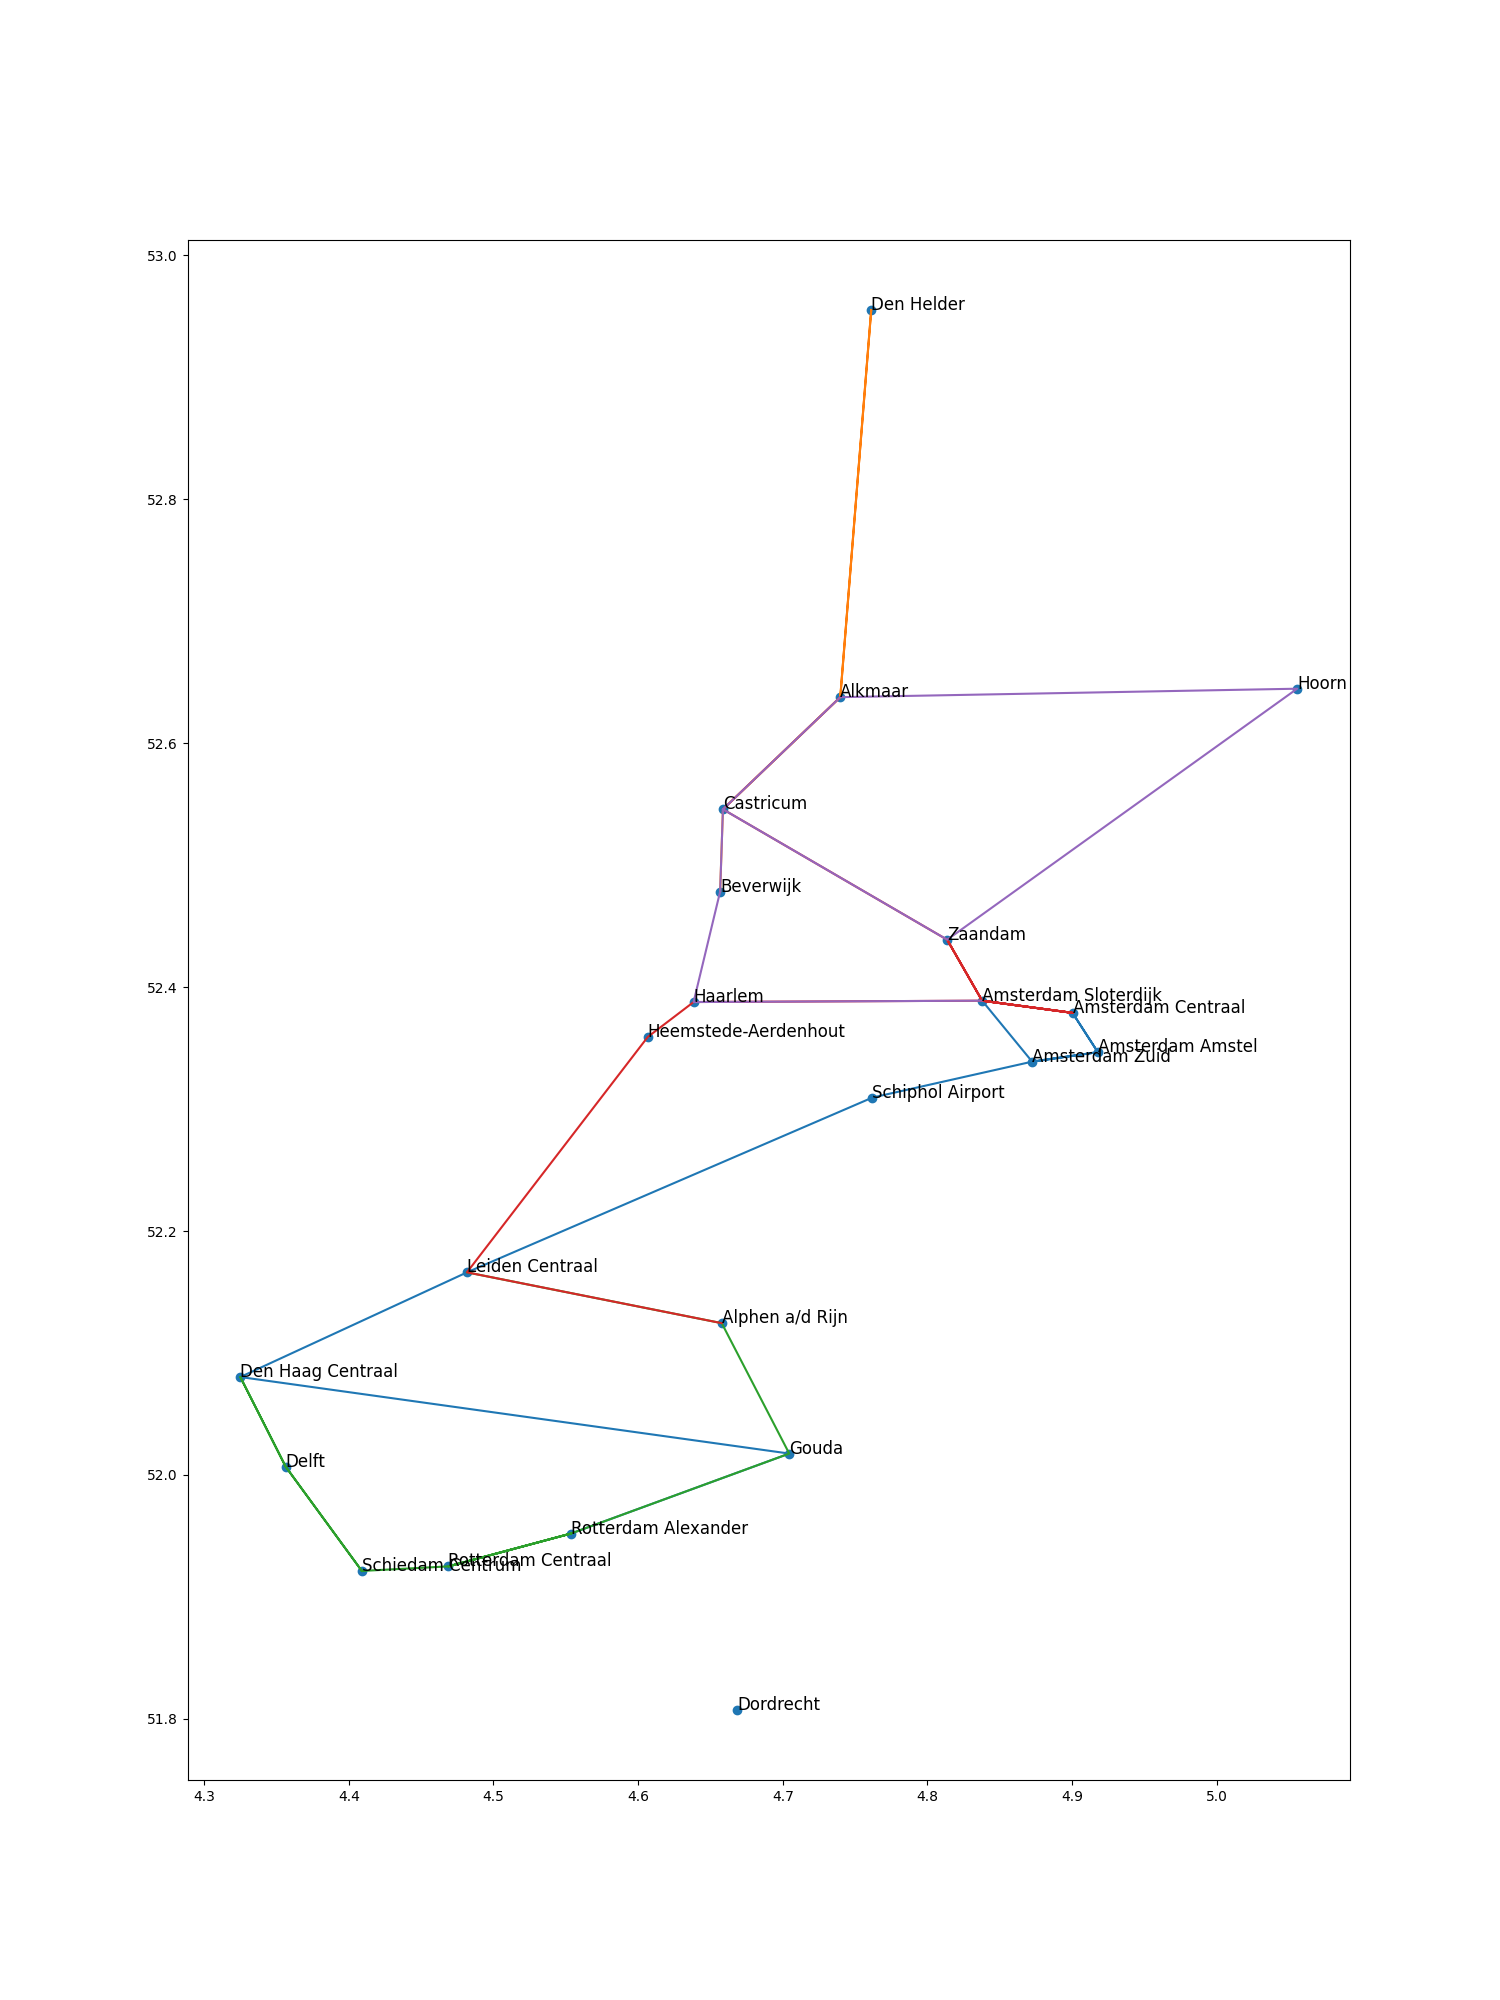
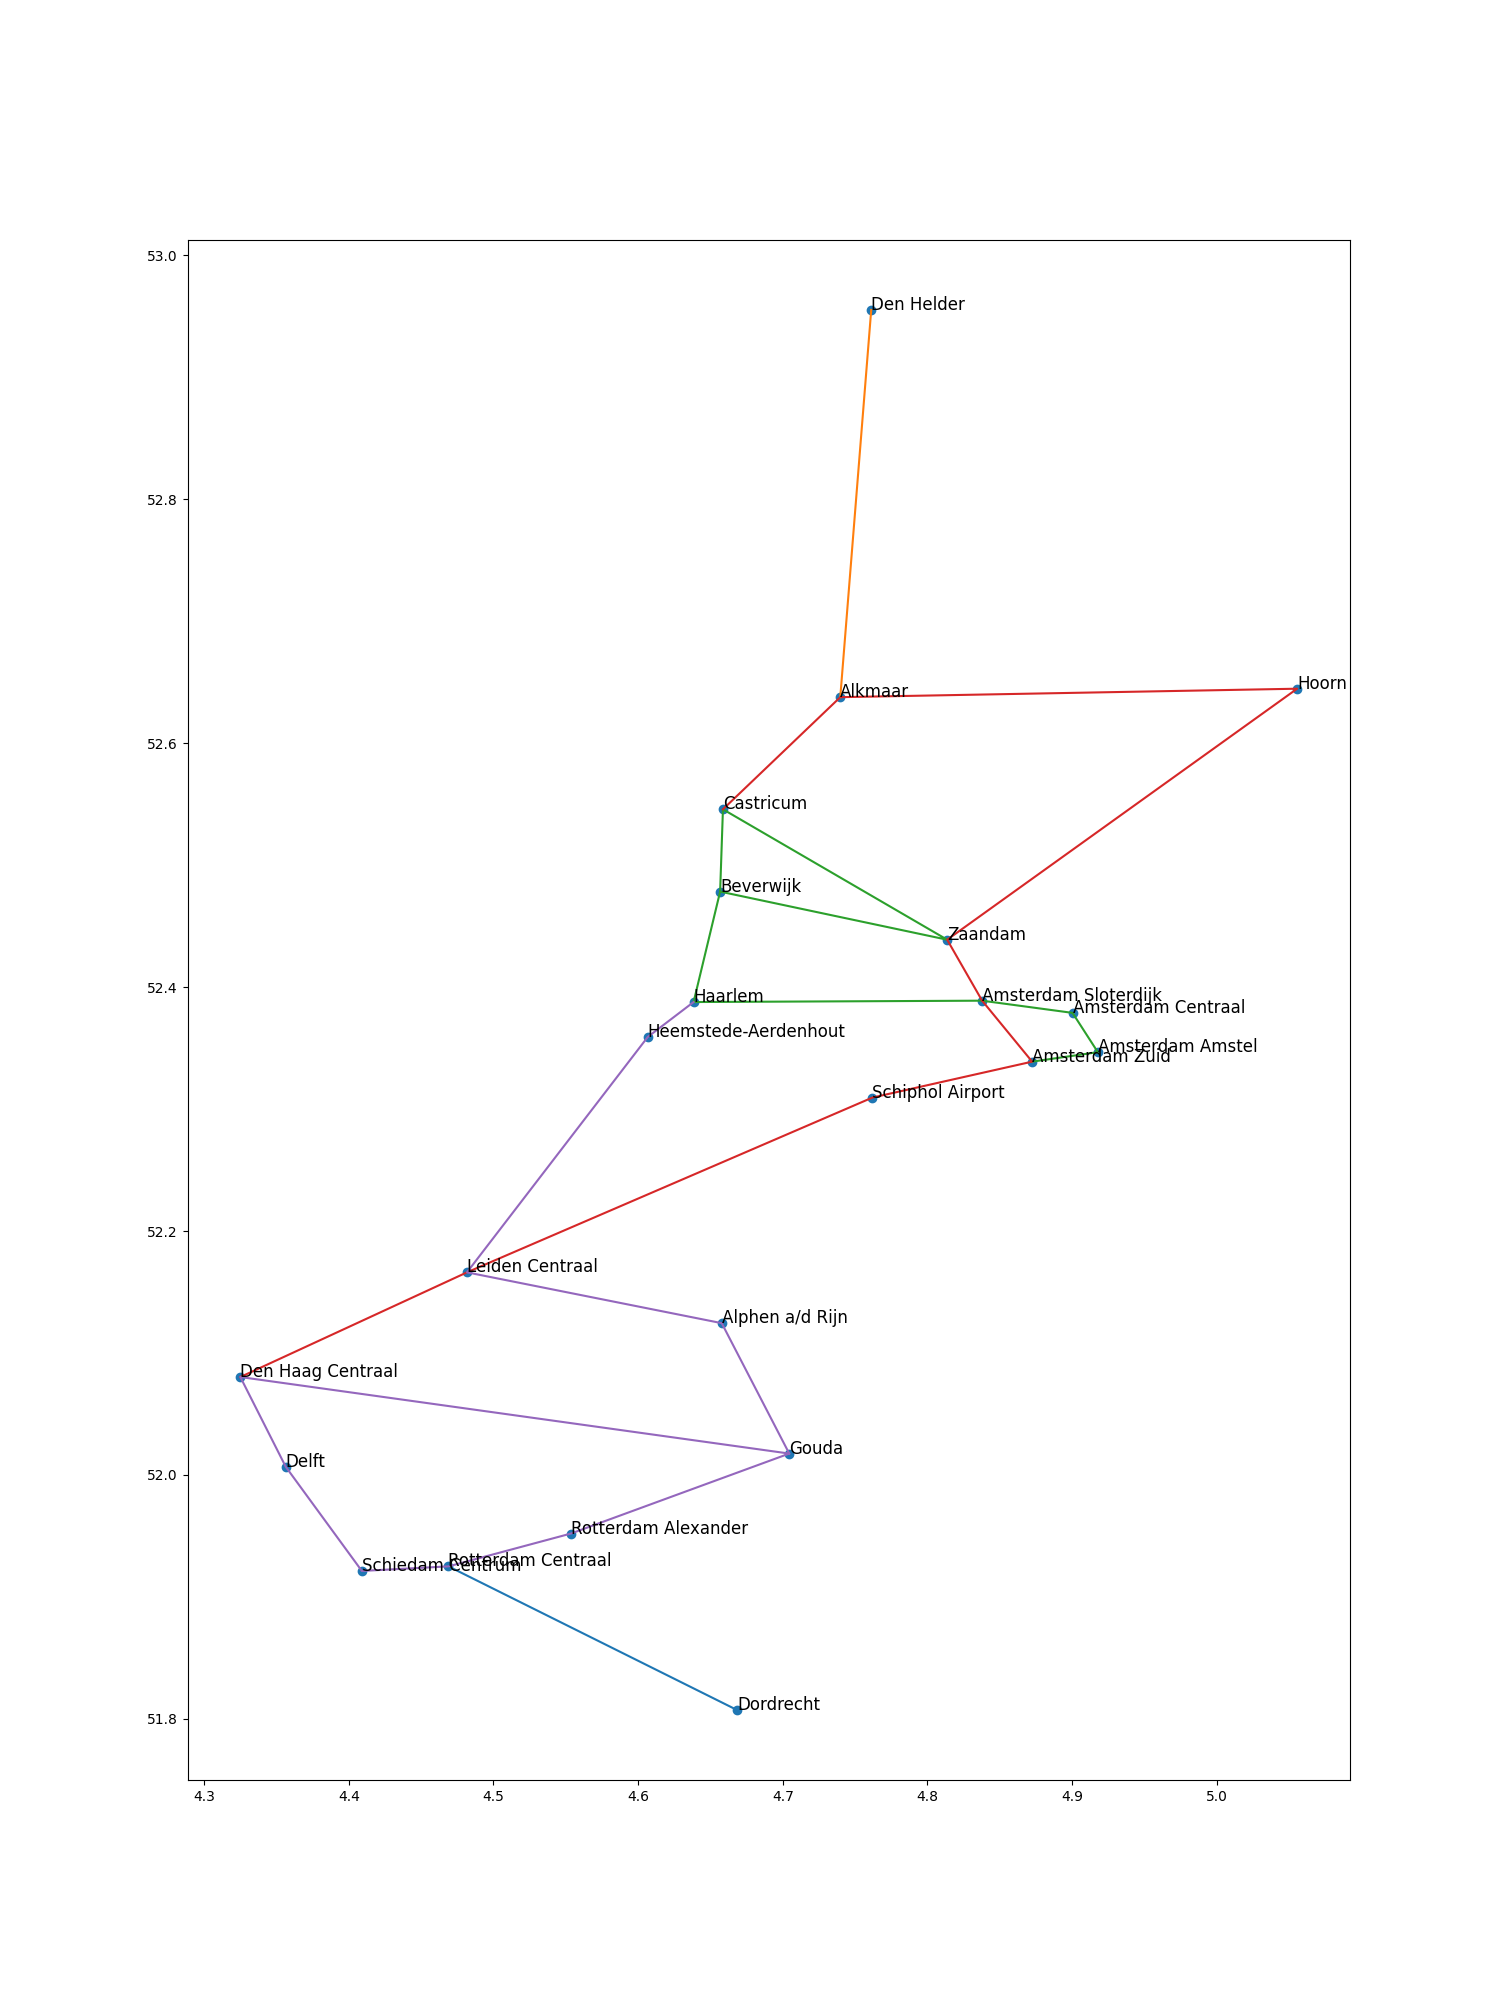
[Alec] Heuristiek op basis van verbindingen toegevoegd, nog niet werkend

diff --git a/main.py b/main.py
@@ -7,6 +7,7 @@ from code.bouwblokjes.plot_trajectories import *
 from code.bouwblokjes.inladen import *
 from code.bouwblokjes.score import *
 from code.bouwblokjes.writer import *
+from code.bouwblokjes.heur_maker import *
 import sys
 
 random.seed(10)
@@ -66,7 +67,10 @@ elif(algoritme == "Restricted_3"):
 #Greedy_apri
 elif(algoritme == "Greedy_apri"):
     print("Voor een even verdeelde standaard heuristiek: Basic")
+    print("Voor een heuristiek gebasseerd het aantal verbindingen van groot naar klein: Max_connections")
     heuristiek = input("Welke heuristiek wil je gebruiken? ")
+
+    #Geen heuristiek
     if(heuristiek == "Basic"):
         heur_stat = stations
         alg = Greedy_apri(heur_stat)
@@ -78,6 +82,17 @@ elif(algoritme == "Greedy_apri"):
         run_plot_trajectories('data/output/greed_apri/zonder_heur/maximum.csv', 'data/images/greed_apri/zonder_heur/max_track.png')
         run_plot_trajectories('data/output/greed_apri/zonder_heur/minimum.csv', 'data/images/greed_apri/zonder_heur/min_track.png')
 
+    #Max connections heuristiek
+    elif(heuristiek == "Max_connections"):
+        heur_stat = max_connection_counter(stations)
+        alg = Greedy_apri(heur_stat)
+        greed_results = alg.run_greedy_times(10000)
+        print("Het algoritme duurt", greed_results[5], "seconden")
+        run_plot_random_alg_score(greed_results[0], 'data/images/greed_apri/max_connections/scores_algoritme')
+        tracks_writer(greed_results[2], greed_results[1], 'data/output/greed_apri/max_connections/maximum.csv')
+        tracks_writer(greed_results[4], greed_results[3], 'data/output/greed_apri/max_connections/minimum.csv')
+        run_plot_trajectories('data/output/greed_apri/max_connections/maximum.csv', 'data/images/greed_apri/max_connections/max_track.png')
+        run_plot_trajectories('data/output/greed_apri/max_connections/minimum.csv', 'data/images/greed_apri/max_connections/min_track.png')
     else:
         print("Verkeerde input")
     

diff --git a/code/algoritmes/greedy_apriori.py b/code/algoritmes/greedy_apriori.py
@@ -7,6 +7,7 @@ import copy
 import random
 from code.classes.station import *
 from code.classes.traject import *
+from code.bouwblokjes.score import *
 
 class Greedy_apri():
 
@@ -19,17 +20,18 @@ class Greedy_apri():
         tried_conn = []
 
         while True:
-            sorted_connections = sorted(traject._endstation._apriori_heuristiek)
+            sorted_connections = sorted(traject._endstation._apriori_heuristiek, key=lambda item: item[1])
             for connection in sorted_connections:
                 if not {traject._endstation._name, connection} in self._ridentracks:
                     new_conn = traject._endstation._connection[connection]
                     if int(traject._traveltime) + int(new_conn[1]) > 120:
                         return traject
+                    self._ridentracks.append({traject._endstation._name, connection})
                     traject.add_trajectconnection(new_conn[0])
                     tried_conn = []
-                    self._ridentracks.append({traject._endstation._name, connection})
-                elif connect_name not in tried_conn:
-                    tried_conn.append(connect_name)
+                    break
+                elif connection not in tried_conn:
+                    tried_conn.append(connection)
                 elif len(tried_conn) == len(traject._endstation._connection):
                     return traject
 

diff --git a/code/bouwblokjes/heur_maker.py b/code/bouwblokjes/heur_maker.py
@@ -1,0 +1,32 @@
+# Aangemaakt door Alec van Duin
+# heur_maker.py
+# Hier definieren we een aantal functies die heuristieken kunnen toevoegen aan de connecties
+
+import time
+import copy
+import random
+from code.classes.station import *
+from code.classes.traject import *
+
+def max_connection_counter(stations:dict):
+    returnstations = copy.deepcopy(stations)
+    for key in returnstations.keys():
+        station = returnstations[key]
+        for connection in station._apriori_heuristiek.keys():
+            connecting_tuple = station._connection[connection]
+            connecting_station = connecting_tuple[0]
+            connected_number = len(connecting_station._connection)
+            station._apriori_heuristiek[connection] = 1/connected_number
+        returnstations[key] = station
+    return returnstations
+
+def min_traveltime(stations:dict):
+    returnstations = copy.deepcopy(stations)
+    for key in returnstations.keys():
+        station = returnstations[key]
+        for connection in station._apriori_heuristiek.keys():
+            connecting_tuple = station._connection[connection]
+            traveltime = connecting_tuple[1]
+            station._apriori_heuristiek[connection] = traveltime
+        returnstations[key] = station
+    return returnstations

diff --git a/code/algoritmes/random_restricted_3.py b/code/algoritmes/random_restricted_3.py
@@ -28,9 +28,10 @@ class Restricted_3():
             if not {traject._endstation._name, connect_name} in self._ridentracks:
                 if int(traject._traveltime) + int(connection[1]) > 120:
                     break
+                self._ridentracks.append({traject._endstation._name, connect_name})
                 traject.add_trajectconnection(connection[0])
                 tried_conn = []
-                self._ridentracks.append({traject._endstation._name, connect_name})
+
             elif connect_name not in tried_conn:
                 tried_conn.append(connect_name)
             elif len(tried_conn) == len(traject._endstation._connection):

diff --git a/code/classes/station.py b/code/classes/station.py
@@ -15,7 +15,7 @@ class Station():
         self._connection: dict = {}
         self._apriori_heuristiek: dict = {}
 
-    def add_connection(self,station, length: int, heur: int) -> None:
+    def add_connection(self,station, length: int, heur: float) -> None:
         """
         Voegt een verbinding toe naar station met bepaalde duur
         """
